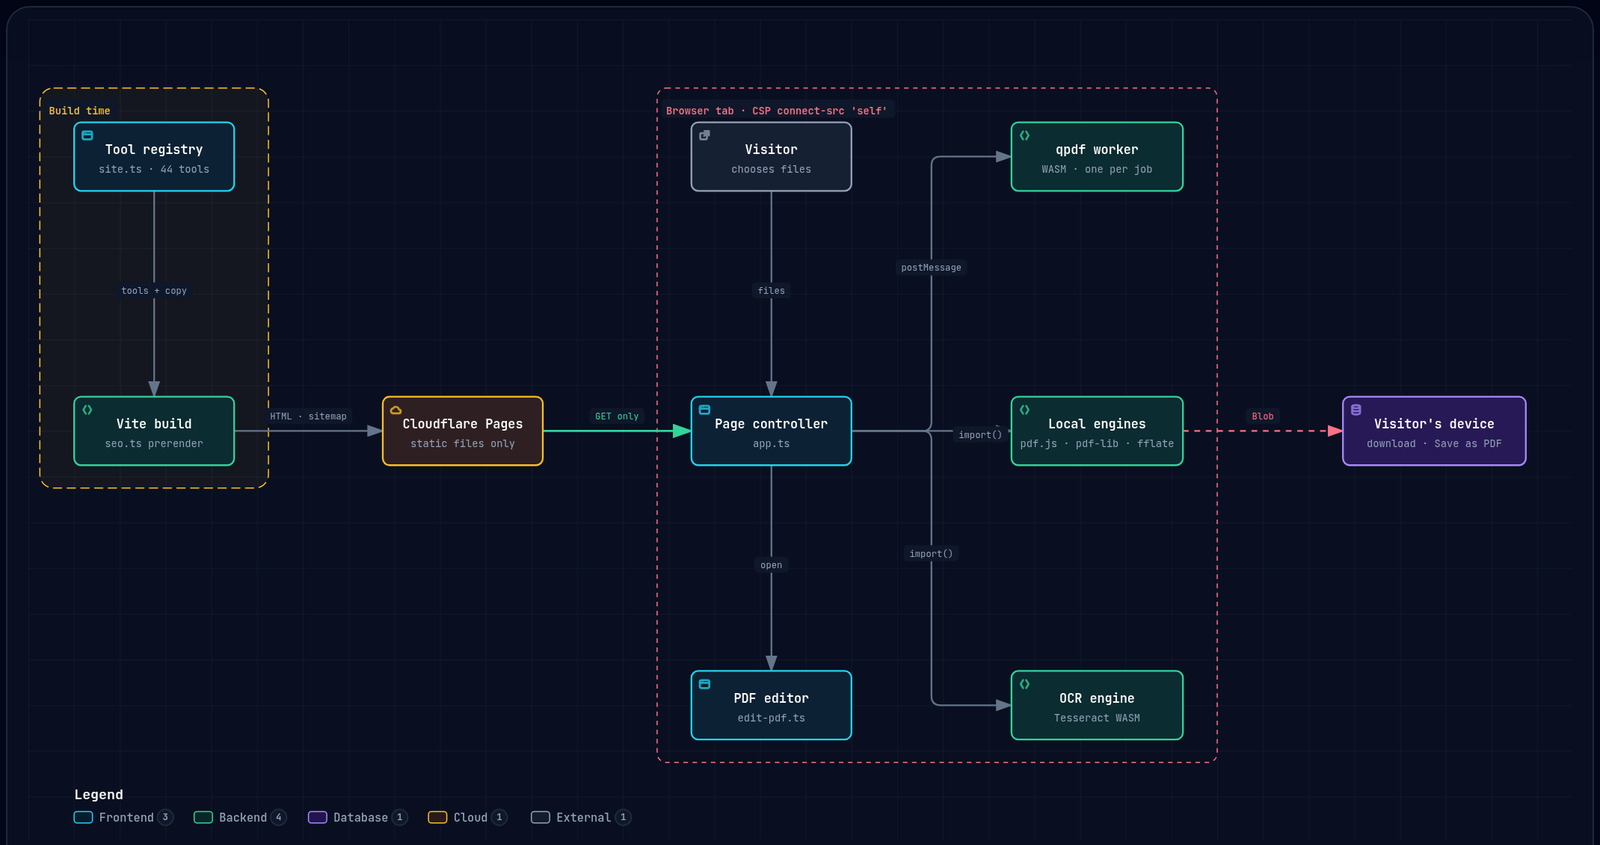
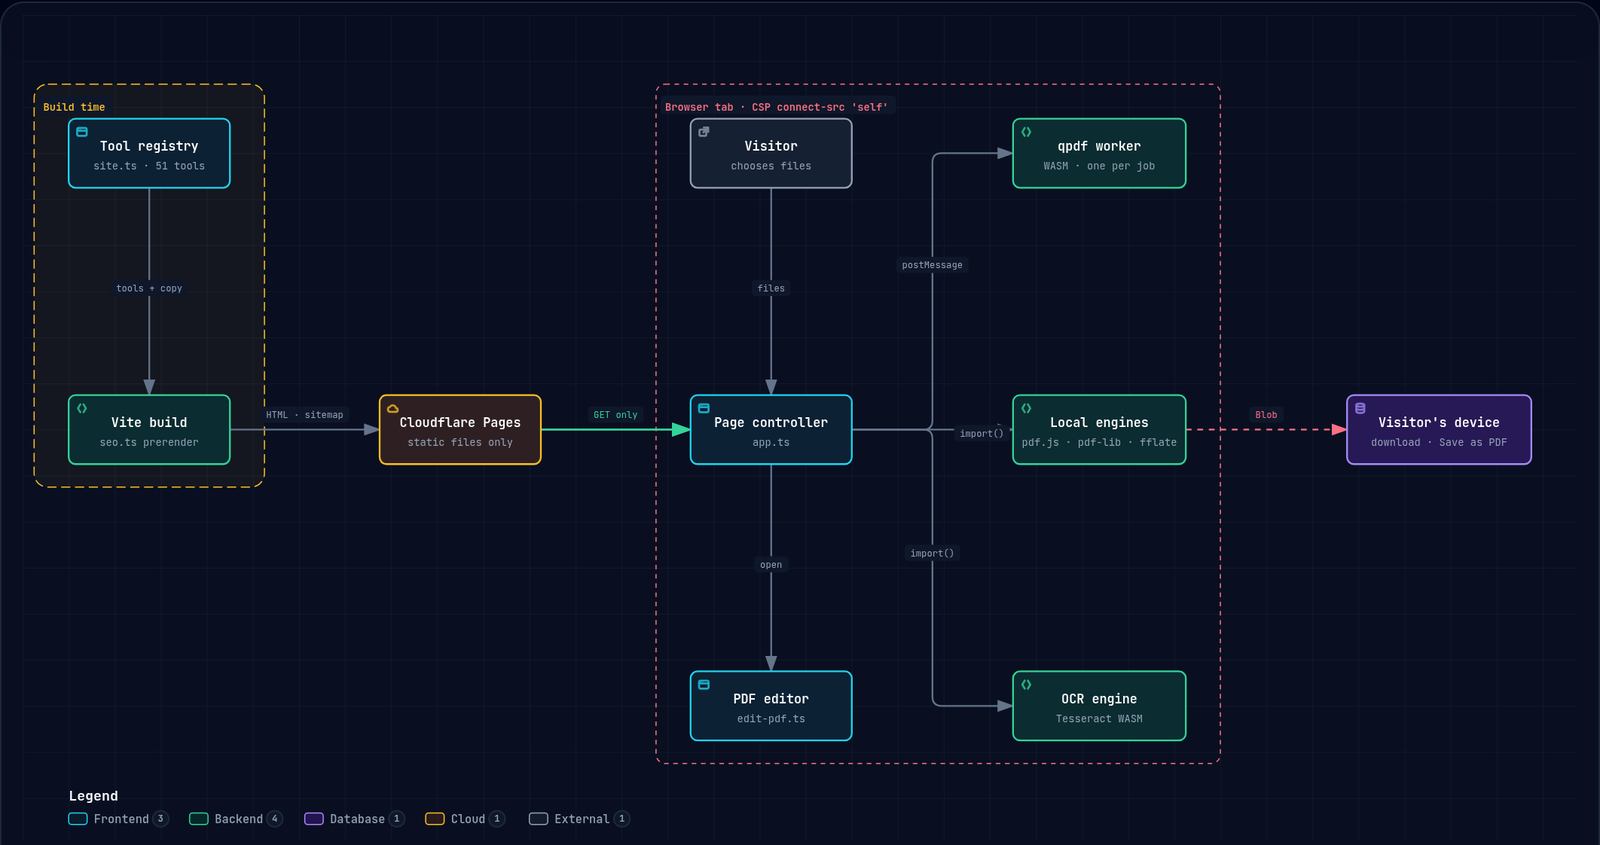
docs: 51 tools, with Redact PDF, Scanned PDF, compress-to-size and audio in the README
The tools table lists the new tools and an Audio row, the badge and
headline say 51, and the architecture map and its images show the new
count.

diff --git a/public/architecture.html b/public/architecture.html
@@ -5172,8 +5172,8 @@ OTHER DEALINGS IN THE FONT SOFTWARE.
         <path data-edge-from="local" data-edge-to="device" data-edge-label="Blob" data-edge-key="8" data-edge-id="local-device" data-composition-points="1010,360;1150,360" d="M 1010 360 L 1150 360" class="a-security" stroke-width="1.5" marker-end="url(#arrowhead-security)"/>
 
         <!-- Components -->
-        <g id="node-registry" data-node-id="registry" data-node-label="Tool registry" tabindex="0" role="button" aria-label="Focus Tool registry, site.ts · 44 tools, Build time" aria-pressed="false" data-node-kind="frontend" data-node-sublabel="site.ts · 44 tools" data-node-context="Build time">
-          <title>Tool registry · site.ts · 44 tools · Build time</title>
+        <g id="node-registry" data-node-id="registry" data-node-label="Tool registry" tabindex="0" role="button" aria-label="Focus Tool registry, site.ts · 51 tools, Build time" aria-pressed="false" data-node-kind="frontend" data-node-sublabel="site.ts · 51 tools" data-node-context="Build time">
+          <title>Tool registry · site.ts · 51 tools · Build time</title>
           <rect x="40" y="90" width="140" height="60" rx="6" class="c-mask"/>
           <rect x="40" y="90" width="140" height="60" rx="6" class="c-frontend" stroke-width="1.5"/>
           <g aria-hidden="true" data-semantic-sigil="frontend" class="semantic-sigil s-frontend" transform="translate(46 96) scale(0.6875)">
@@ -5183,7 +5183,7 @@ OTHER DEALINGS IN THE FONT SOFTWARE.
             <circle cx="6.3" cy="4.8" r=".7" class="sigil-fill"/>
           </g>
           <text data-node-label="" data-detail-anchor="" x="110" y="118" class="t-primary" font-size="11" font-weight="600" text-anchor="middle">Tool registry</text>
-        <text data-detail="context" x="110" y="134" class="t-muted" font-size="9" text-anchor="middle">site.ts · 44 tools</text>
+        <text data-detail="context" x="110" y="134" class="t-muted" font-size="9" text-anchor="middle">site.ts · 51 tools</text>
         </g>
 
         <g id="node-build" data-node-id="build" data-node-label="Vite build" tabindex="0" role="button" aria-label="Focus Vite build, seo.ts prerender, Build time" aria-pressed="false" data-node-kind="backend" data-node-sublabel="seo.ts prerender" data-node-context="Build time">

diff --git a/README.md b/README.md
@@ -8,13 +8,13 @@
 <h3 align="center">The open-source iLovePDF alternative that never sees your files.</h3>
 
 <p align="center">
-  44 PDF, Word, Excel, PowerPoint and image tools — edit, compress, merge, convert, OCR —<br>
+  51 PDF, Word, Excel, PowerPoint, image and audio tools — edit, redact, compress, merge, convert, OCR —<br>
   running <strong>100% in your browser</strong>. No uploads. No sign-up. No watermark. 16 languages.
 </p>
 
 <p align="center">
   <a href="https://fizzdoc.com"><strong>Open Fizzdoc →</strong></a> &nbsp;·&nbsp;
-  <a href="#-all-44-tools"><strong>All tools</strong></a> &nbsp;·&nbsp;
+  <a href="#-all-51-tools"><strong>All tools</strong></a> &nbsp;·&nbsp;
   <a href="#-how-it-works"><strong>How it works</strong></a> &nbsp;·&nbsp;
   <a href="CONTRIBUTING.md"><strong>Contribute</strong></a>
 </p>
@@ -24,7 +24,7 @@
   <a href="https://github.com/kingrishabdugar/fizzdoc/actions/workflows/ci.yml"><img src="https://img.shields.io/github/actions/workflow/status/kingrishabdugar/fizzdoc/ci.yml?branch=main&style=flat-square&label=tests" alt="Tests"></a>
   <a href="LICENSE"><img src="https://img.shields.io/badge/license-Apache--2.0-22c55e?style=flat-square" alt="Apache-2.0 license"></a>
   <img src="https://img.shields.io/badge/bytes%20uploaded-0-16a34a?style=flat-square" alt="0 bytes uploaded">
-  <img src="https://img.shields.io/badge/tools-44-e5322d?style=flat-square" alt="44 tools">
+  <img src="https://img.shields.io/badge/tools-51-e5322d?style=flat-square" alt="51 tools">
   <img src="https://img.shields.io/badge/languages-16-2f6fdb?style=flat-square" alt="16 languages">
   <a href="CONTRIBUTING.md"><img src="https://img.shields.io/badge/PRs-welcome-8b5cf6?style=flat-square" alt="PRs welcome"></a>
 </p>
@@ -88,16 +88,17 @@ Most free online PDF tools ask you to upload your contract, payslip, bank statem
   </tr>
 </table>
 
-## 🧰 All 44 tools
+## 🧰 All 51 tools
 
 | Format | Tools |
 |---|---|
-| **PDF** | [Edit PDF](https://fizzdoc.com/edit-pdf/) (change text in place) · [Compress](https://fizzdoc.com/compress-pdf/) · [Merge](https://fizzdoc.com/merge-pdf/) · [Split](https://fizzdoc.com/split-pdf/) · [Extract pages](https://fizzdoc.com/extract-pdf-pages/) · [Reorder pages](https://fizzdoc.com/reorder-pdf-pages/) · [Rotate](https://fizzdoc.com/rotate-pdf/) · [Delete pages](https://fizzdoc.com/delete-pdf-pages/) · [Page numbers](https://fizzdoc.com/add-page-numbers-to-pdf/) · [Watermark](https://fizzdoc.com/watermark-pdf/) · [Unlock](https://fizzdoc.com/unlock-pdf/) · [Protect (AES-256)](https://fizzdoc.com/protect-pdf/) · [Remove metadata](https://fizzdoc.com/remove-pdf-metadata/) · [OCR](https://fizzdoc.com/ocr-pdf/) |
+| **PDF** | [Edit PDF](https://fizzdoc.com/edit-pdf/) (change text in place) · [Redact](https://fizzdoc.com/redact-pdf/) (black out text for good) · [Compress](https://fizzdoc.com/compress-pdf/) · [Merge](https://fizzdoc.com/merge-pdf/) · [Split](https://fizzdoc.com/split-pdf/) · [Extract pages](https://fizzdoc.com/extract-pdf-pages/) · [Reorder pages](https://fizzdoc.com/reorder-pdf-pages/) · [Rotate](https://fizzdoc.com/rotate-pdf/) · [Delete pages](https://fizzdoc.com/delete-pdf-pages/) · [Page numbers](https://fizzdoc.com/add-page-numbers-to-pdf/) · [Watermark](https://fizzdoc.com/watermark-pdf/) · [Unlock](https://fizzdoc.com/unlock-pdf/) · [Protect (AES-256)](https://fizzdoc.com/protect-pdf/) · [Remove metadata](https://fizzdoc.com/remove-pdf-metadata/) · [OCR](https://fizzdoc.com/ocr-pdf/) · [PDF → Scanned PDF](https://fizzdoc.com/pdf-to-scanned-pdf/) |
 | **PDF conversions** | [PDF → Word](https://fizzdoc.com/pdf-to-word/) · [PDF → PowerPoint](https://fizzdoc.com/pdf-to-powerpoint/) · [PDF → JPG](https://fizzdoc.com/pdf-to-jpg/) · [PDF → PNG](https://fizzdoc.com/pdf-to-png/) · [PDF → Text](https://fizzdoc.com/pdf-to-text/) · [PDF → Markdown](https://fizzdoc.com/pdf-to-markdown/) · [JPG → PDF](https://fizzdoc.com/jpg-to-pdf/) · [PNG → PDF](https://fizzdoc.com/png-to-pdf/) · [Text → PDF](https://fizzdoc.com/text-to-pdf/) · [Markdown → PDF](https://fizzdoc.com/markdown-to-pdf/) |
 | **Word** | [Word → PDF](https://fizzdoc.com/word-to-pdf/) · [Compress](https://fizzdoc.com/compress-word/) · [Remove metadata](https://fizzdoc.com/remove-word-metadata/) · [Extract images](https://fizzdoc.com/extract-images-from-word/) |
 | **Excel** | [Excel → CSV](https://fizzdoc.com/excel-to-csv/) · [CSV → Excel](https://fizzdoc.com/csv-to-excel/) · [Compress](https://fizzdoc.com/compress-excel/) · [Remove metadata](https://fizzdoc.com/remove-excel-metadata/) · [Extract images](https://fizzdoc.com/extract-images-from-excel/) |
 | **PowerPoint** | [Compress](https://fizzdoc.com/compress-powerpoint/) · [Remove metadata](https://fizzdoc.com/remove-powerpoint-metadata/) · [Extract images](https://fizzdoc.com/extract-images-from-powerpoint/) |
-| **Images** | [Compress](https://fizzdoc.com/compress-image/) · [Resize](https://fizzdoc.com/resize-image/) (larger or smaller) · [Convert](https://fizzdoc.com/convert-image/) · [PNG → JPG](https://fizzdoc.com/png-to-jpg/) · [JPG → PNG](https://fizzdoc.com/jpg-to-png/) · [WebP → JPG](https://fizzdoc.com/webp-to-jpg/) · [JPG → WebP](https://fizzdoc.com/jpg-to-webp/) · [Image → Text](https://fizzdoc.com/image-to-text/) (select text right on the photo, like Live Text) |
+| **Images** | [Compress](https://fizzdoc.com/compress-image/) (to [20 KB](https://fizzdoc.com/compress-image-to-20kb/), [50 KB](https://fizzdoc.com/compress-image-to-50kb/), [100 KB](https://fizzdoc.com/compress-image-to-100kb/) for forms) · [Resize](https://fizzdoc.com/resize-image/) (larger or smaller) · [Convert](https://fizzdoc.com/convert-image/) · [PNG → JPG](https://fizzdoc.com/png-to-jpg/) · [JPG → PNG](https://fizzdoc.com/jpg-to-png/) · [WebP → JPG](https://fizzdoc.com/webp-to-jpg/) · [JPG → WebP](https://fizzdoc.com/jpg-to-webp/) · [Image → Text](https://fizzdoc.com/image-to-text/) (select text right on the photo, like Live Text) |
+| **Audio** | [Cut & Split Audio](https://fizzdoc.com/split-audio/) (trim or split an MP3/M4A on a waveform, preview every part) · [Merge Audio](https://fizzdoc.com/merge-audio/) (listen before you download) — no re-encoding, so no quality loss |
 
 **Google Docs, Sheets and Slides** work too: download as .docx / .xlsx / .pptx and use the matching tool. Nothing is sent to Google.
 
